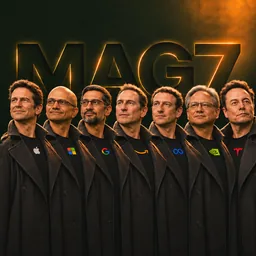
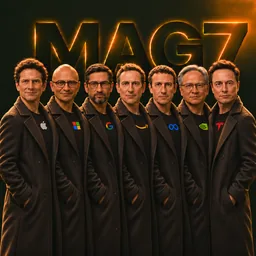
深色主題「深林綠＋暖金」：整站換色（第一步） (#118)
* 深色主題「深林綠＋暖金」：整站換色（第一步）

使用者 2026-11-17：UI 改成一看就是 BNB 生態、但不像 Binance；選 D1 深林綠底＋暖金，只做深色。
- 新增 src/styles/theme-dark.css，最後載入：重新定義 app 與設計稿 vendor 的色票（字與面板對調），
  主要按鈕改暖金；不動 vendor 與 src/reference，不改版面。
- 有些頁面在 body 上自己重設色票（formal-ui.css、mobile-app.css），用同樣的選擇器蓋回來。
- 逐條覆蓋寫死的淺色：logo 翻牌數字、報酬區白底、手機毛玻璃與分頁列、Studio 標籤、建立頁封面預覽、
  waitlist 頁與翻牌看板（改成深色看板）。
- 點畫人像維持紙色印刷卡（multiply 疊在紙上）；寬版封面上的按鈕用紙上淺色，窄版上下排整張卡片是紙色。
- 全站對比檢查（10 多頁 × 390／768／1280，登入與未登入）：沒有字跟底對比不夠的地方。

* 深色主題：寫實照封面上的名稱、返回／分享圖示、桌機封面按鈕改回淺字深玻璃

--white 在深色主題是面板色，封面名稱變成深字疊深底、桌機封面上的兩顆按鈕白底白字、手機返回鍵看不到。
同時合併 main（#119 寫實照封面）。

* Mag7 封面：整排往左移、略縮小，最右邊的人不再被切掉半個身體

* Mag7 封面：兩側的人肩膀與手臂畫完整，七個人都看鏡頭

---------

diff --git a/src/styles/theme-dark.css b/src/styles/theme-dark.css
@@ -1,0 +1,222 @@
+/*
+ * 深色主題「深林綠＋暖金」（使用者 2026-11-17 選 D1；提案見 BNB 生態研究）。
+ *
+ * 這支檔案最後載入，只做「換色」：
+ *   1. 重新定義 app 自己的色票（system.css）與設計稿 vendor 的色票（design.css 的 :root），整站一起變深。
+ *      app 的規則一律用 `--ink` 當字、`--white` 當面板，所以兩個對調後，主要按鈕、輸入框、分段控制會一起翻過來。
+ *   2. 少數寫死淺色的規則（頁首的半透明白、點畫封面的紙色……）在下面逐一覆蓋。
+ * 不改版面、不改元件結構；vendor 與 src/reference 不動。
+ */
+/* 有些頁面在 body 上自己重設了色票（formal-ui.css、mobile-app.css 的手機殼層），這裡用同樣的選擇器蓋回來。 */
+:root,
+body:is(.atp-formal-market, .atp-formal-fund, .portfolio-page, .create-page, .atp-asset-page),
+body.atp-formal-market, body.atp-formal-fund,
+#root :is(.app-masthead, .app-mobile-nav),
+.app-bottom-sheet {
+  /* 底層與面板（由深到淺）。 */
+  --forest-page: #08140f;
+  --forest-surface: #0e1d17;
+  --forest-raised: #142820;
+  --forest-sunken: #06100c;
+  --forest-line: rgba(200, 235, 215, .09);
+  --forest-line-2: rgba(200, 235, 215, .16);
+  /* 暖金（D1）：只給主要動作、選取狀態、焦點環。 */
+  --gold: #e6b84e;
+  --gold-press: #d4a43a;
+  --gold-ink: #14110a;
+  --gold-text: #ecc66a;
+  --gold-soft: rgba(230, 184, 78, .13);
+  --gold-line: rgba(230, 184, 78, .42);
+  /* 點畫人像的紙（深色底上當成印刷卡，不反白）。 */
+  --print-paper: #f1ede2;
+
+  /* app 色票（system.css）：字與面板對調。 */
+  --ink: #eef5f1;
+  --deep: #c9d8d0;
+  --steel: #9db3a8;
+  --slate: #7e968a;
+  --fog: #6f93ae;
+  --frost: #22392f;
+  --snow: var(--forest-raised);
+  --paper: var(--forest-surface);
+  --white: var(--forest-surface);
+  --hair: var(--forest-line);
+  --hair-2: var(--forest-line-2);
+  --positive: #7af0bf;
+  --negative: #ff7a70;
+  --caution: #f0c060;
+  --signal: var(--gold);
+  --signal-soft: var(--gold-soft);
+  --night: var(--forest-sunken);
+  --night-2: var(--forest-surface);
+  --night-line: var(--forest-line);
+  --night-text: #eef5f1;
+  --night-muted: #9db3a8;
+  --night-positive: #7af0bf;
+  --night-negative: #ff7a70;
+  --app-action: var(--gold);
+  --app-action-hover: var(--gold-press);
+  --app-grouped: var(--forest-raised);
+  --app-segment: var(--forest-sunken);
+  --app-card-line: var(--forest-line);
+  --shadow-pop: 0 16px 40px rgba(0, 0, 0, .45), 0 2px 6px rgba(0, 0, 0, .35);
+
+  /* 設計稿 vendor 的色票（design.css 的 :root）。 */
+  --cre8-ink: #eef5f1;
+  --cre8-deep: #c9d8d0;
+  --cre8-steel: #9db3a8;
+  --cre8-slate: #7e968a;
+  --cre8-frost: #22392f;
+  --cre8-snow: var(--forest-raised);
+  --cre8-fog: #6f93ae;
+  --bg: var(--forest-page);
+  --bg-2: var(--forest-surface);
+  --card: var(--forest-surface);
+  --card-2: var(--forest-raised);
+  --field: var(--forest-sunken);
+  --line: var(--forest-line);
+  --line-2: var(--forest-line-2);
+  --ink-2: #c9d8d0;
+  --body: #c9d8d0;
+  --muted: #9db3a8;
+  --mist: #9db3a8;
+  --mist-hover: #eef5f1;
+  --deep-mist: #c9d8d0;
+  --ice: #22392f;
+  --panel: var(--forest-surface);
+  --panel-2: var(--forest-raised);
+  --tint: var(--forest-raised);
+  --border: var(--forest-line-2);
+  --chip-on-mist: #eef5f1;
+  --line-on-mist: var(--forest-line-2);
+  --status-chip: #c9d8d0;
+  --gold-2: var(--gold-press);
+  --pos: #7af0bf;
+  --neg: #ff7a70;
+  --warn: #f0c060;
+  color-scheme: dark;
+}
+
+html, html body, body.atp-formal-market, body.atp-formal-fund { background: var(--forest-page) !important; }
+
+/* 頁首：半透明白改成半透明深綠。 */
+@media (min-width: 720px) {
+  #root .masthead.app-masthead { background: rgba(8, 20, 15, .86); }
+}
+@supports not ((-webkit-backdrop-filter: blur(1px)) or (backdrop-filter: blur(1px))) {
+  #root .masthead.app-masthead { background: var(--forest-page); }
+}
+
+/* 主要按鈕：暖金底、深字（原本是墨色底白字）。 */
+html body #root .btn:not(.ghost, .light, .btn--ghost, :disabled),
+html body .btn:not(.ghost, .light, .btn--ghost, :disabled) { border-color: var(--gold); background: var(--gold); color: var(--gold-ink); }
+html body #root .btn:not(.ghost, .light, .btn--ghost, :disabled):hover,
+html body .btn:not(.ghost, .light, .btn--ghost, :disabled):hover { border-color: var(--gold-press); background: var(--gold-press); color: var(--gold-ink); }
+html body #root .btn:is(.ghost, .light, .btn--ghost):not(:disabled):hover,
+html body .btn:is(.ghost, .light, .btn--ghost):not(:disabled):hover { background: #1b3328; }
+html body #root .masthead .header-wallet[data-wallet-state="disconnected"] { border-color: var(--gold); background: var(--gold); color: var(--gold-ink); }
+html body #root .masthead .header-wallet[data-wallet-state="disconnected"]:hover { border-color: var(--gold-press); background: var(--gold-press); }
+
+/* 點畫人像：白紙黑墨用 multiply 疊在紙色上；深色底上維持紙色，像一張印刷卡。 */
+body.atp-formal-fund #root #atp-fund-cover.is-hedcut { background: var(--print-paper); border-color: var(--gold-line); }
+body.atp-formal-fund #root #atp-fund-cover.is-hedcut h1,
+body.atp-formal-fund #root #atp-fund-cover.is-hedcut h1 :is(a, button, span) { color: #16140f; }
+#root :is(.mkt-avatar, .app-holding-cover, .fund-thumb, .fund-introduction-identity img, .app-ticket-fund img) { background: var(--print-paper); }
+
+/* ── 逐條覆蓋：設計稿與舊樣式寫死的淺色（由全站對比檢查找出，2026-11-17） ── */
+/* logo 翻牌上的數字原本用 --snow（淺）；深色主題裡 --snow 是面板色，數字要維持淺色。 */
+.c8-reel { color: #eef3f7; }
+/* 報酬走勢區塊寫死白底。 */
+body.atp-formal-fund .vault-performance,
+body.fund-detail-redesign .vault-performance,
+body.vault-page .vault-performance { background: transparent; }
+/* 原本深色區（Top performers、資產頁的建立區）上的白字：--white 現在是深色，改用 --ink。 */
+#fund-explore .mkt-deck .mkt-id strong { color: var(--ink); }
+body.atp-asset-page #root [class*="_side_"] > section[class*="_create_"] h2 { color: var(--ink); }
+/* 設計稿寫死 #2B4254 的細字與「展開更多」。 */
+.vault-page .fine,
+#root .fine { color: var(--muted); }
+#root .vault-details summary { color: var(--steel); }
+/* 手機：毛玻璃與分頁列（原本是半透明白）。 */
+:root {
+  --glass-fill: rgb(14 29 23 / 72%);
+  --glass-edge: rgb(200 235 215 / 12%);
+  --glass-press: rgb(238 245 241 / 8%);
+  --glass-shadow: 0 12px 32px rgb(0 0 0 / 40%), inset 0 1px 0 rgb(255 255 255 / 6%);
+}
+@media (max-width: 719px) {
+  #root .app-mobile-nav a[aria-current="page"] { background: var(--gold-soft); color: var(--gold-text); }
+  #root .app-mobile-nav a[aria-current="page"] :is(path, circle, rect, g)[fill="currentColor"] { fill: var(--gold-text); }
+  #fund-explore .collection-tabs,
+  #fund-explore > .collection-tabs { background: rgb(8 20 15 / 94%); }
+  #root:has(#fund-explore) .app-nav-bar::before { background: rgb(8 20 15 / 94%); }
+  #root .app-nav-bar .app-mode-switch[data-target="studio"] { background: var(--forest-raised); color: var(--ink); }
+}
+.app-mode-label { background: var(--gold-soft); color: var(--gold-text); }
+/* 建立頁封面預覽的底（圖片載入前）。 */
+#root section[aria-label="Fund cover"] [class*="_preview_"] { background-color: var(--forest-raised); }
+/* 錢包選單裡的主要按鈕也是暖金。 */
+html body #root .wallet-menu .btn.primary:not(:disabled),
+html body #root .app-portfolio-guest .btn.primary,
+html body #root .signin-screen .btn.btn:not(.ghost) { border-color: var(--gold); background: var(--gold); color: var(--gold-ink); }
+/* Studio 的深色玻璃分頁列：選中項目原本用 --white（現在是深色）。 */
+@media (max-width: 719px) {
+  body.studio-mode #root .app-mobile-nav a[aria-current="page"] { color: var(--gold-text); }
+  body.studio-mode #root .app-mobile-nav a[aria-current="page"] :is(path, circle, rect, g)[fill="currentColor"] { fill: var(--gold-text); }
+}
+/* 封面預覽上的基金名稱疊在圖片上，固定白字。 */
+#root section[aria-label="Fund cover"] [class*="_preview_"] > strong { color: #fff; }
+/*
+ * 點畫封面（紙色）：
+ *   - 寬版（按鈕疊在封面上）：兩顆按鈕維持紙上的淺色按鈕。
+ *   - 窄版上下排（cre8-app#106）：名稱那條也用紙色，整張卡片是一張印刷卡；按鈕在卡片下面的深色底上，照一般深色按鈕。
+ */
+@media (min-width: 720px) {
+  @container fund-heading (min-width: 560px) {
+    body.atp-formal-fund #root .vault-heading:has(#atp-fund-cover.is-hedcut) .atp-fund-byline :is(.btn, .fund-introduction-trigger) { background: #fffdf8; color: #16140f; box-shadow: inset 0 0 0 1px rgba(22, 20, 15, .12); }
+    body.atp-formal-fund #root .vault-heading:has(#atp-fund-cover.is-hedcut) .atp-fund-byline :is(.btn, .fund-introduction-trigger):hover { background: #f4efe3; }
+  }
+  @container fund-heading (max-width: 559.98px) {
+    body.atp-formal-fund #root #atp-fund-cover.is-hedcut h1 { background: var(--print-paper); border-top-color: rgba(22, 20, 15, .1); }
+  }
+}
+
+/* ── 登入頁與 waitlist（整站鎖住時唯一的畫面）：淺灰底與白色翻牌看板改成深色。 ── */
+.signin-screen.waitlist { background: var(--forest-page); }
+.waitlist__board {
+  background:
+    radial-gradient(90% 70% at 70% 20%, rgba(230, 184, 78, .10), transparent 60%),
+    linear-gradient(180deg, #0b1913, #08140f);
+  border-left-color: var(--forest-line);
+}
+@media (max-width: 959px) {
+  .signin-screen.waitlist { background: radial-gradient(120% 55% at 50% 0%, rgba(230, 184, 78, .10), transparent 70%), var(--forest-page); }
+  .waitlist__board { background: none; }
+}
+.flap-board { background: rgba(14, 29, 23, .72); box-shadow: 0 30px 60px rgba(0, 0, 0, .45), 0 0 0 1px var(--forest-line); }
+.flap { background: linear-gradient(180deg, #1d3a2e 0 50%, #16301f 50% 100%); box-shadow: 0 1px 1px rgba(0, 0, 0, .4), 0 0 0 1px rgba(200, 235, 215, .07); color: #eef5f1; }
+.flap::after { background: rgba(0, 0, 0, .55); }
+.flap[data-blank] { background: linear-gradient(180deg, #13271f 0 50%, #102119 50% 100%); }
+.waitlist__invite { border-top-color: var(--forest-line); }
+html body #root .waitlist__invite input { background: var(--forest-sunken); box-shadow: 0 0 0 1px var(--forest-line-2); }
+html body #root .signin-screen .btn.btn.ghost[data-method='follow'] { background: var(--forest-raised); color: var(--ink); box-shadow: 0 0 0 1px var(--forest-line); }
+html body #root .signin-screen .btn.btn.ghost[data-method='follow']:hover { background: #1b3328; }
+html body #root .signin-screen .btn.btn.ghost:not([data-method='google']) { background: var(--forest-raised); color: var(--ink); }
+/* 主要動作（含 Connect X）一律暖金。 */
+html body #root .signin-screen .btn.btn[data-method='x'] { background: var(--gold); color: var(--gold-ink); }
+html body #root .signin-screen .btn.btn[data-method='x']:hover:not(:disabled) { background: var(--gold-press); }
+
+/*
+ * 封面上的字與按鈕（2026-11-18）：封面一律是深色照片，原本用 --white 當字色／淺色玻璃當按鈕；
+ * --white 在深色主題是面板色，名稱、手機的返回／分享圖示會變成深字疊深底，桌機封面上的按鈕變成白底白字。
+ * 點畫封面（紙色）在上面另有規則，這裡只管非點畫的封面。
+ */
+body.atp-formal-fund #root #atp-fund-cover:not(.is-hedcut) h1,
+body.atp-formal-fund #root #atp-fund-cover:not(.is-hedcut) h1 :is(a, button, span) { color: #f4f1e8; }
+#root #atp-fund-cover .app-fund-toolbar > :is(a, button) { background: rgba(8, 20, 15, .62); color: #f4f1e8; box-shadow: inset 0 0 0 1px rgba(244, 241, 232, .14); }
+@media (min-width: 720px) {
+  @container fund-heading (min-width: 560px) {
+    body.atp-formal-fund #root .vault-heading:has(#atp-fund-cover:not(.is-hedcut)) .atp-fund-byline :is(.btn, .fund-introduction-trigger) { background: rgba(8, 20, 15, .72); color: #f4f1e8; box-shadow: inset 0 0 0 1px var(--gold-line); }
+    body.atp-formal-fund #root .vault-heading:has(#atp-fund-cover:not(.is-hedcut)) .atp-fund-byline :is(.btn, .fund-introduction-trigger):hover { background: rgba(20, 40, 32, .9); color: #f4f1e8; }
+  }
+}

diff --git a/tests/theme-dark.test.ts b/tests/theme-dark.test.ts
@@ -1,0 +1,47 @@
+import { expect, test } from "bun:test";
+import fs from "node:fs";
+
+// 深色主題「深林綠＋暖金」（使用者 2026-11-17 選 D1）。只換色：一支檔案、最後載入、不動 vendor 與 src/reference。
+
+const css = fs.readFileSync("src/styles/theme-dark.css", "utf8");
+
+test("the dark theme loads after every other stylesheet", () => {
+  const main = fs.readFileSync("src/main.tsx", "utf8");
+  const imports = [...main.matchAll(/import ['"]\.\/styles\/([\w-]+)\.css['"]/g)].map((m) => m[1]);
+  expect(imports.at(-1)).toBe("theme-dark");
+});
+
+test("D1 palette: forest-green surfaces, warm gold for actions", () => {
+  for (const [token, value] of [
+    ["--forest-page", "#08140f"], ["--forest-surface", "#0e1d17"], ["--forest-raised", "#142820"],
+    ["--gold", "#e6b84e"], ["--gold-ink", "#14110a"], ["--positive", "#7af0bf"], ["--negative", "#ff7a70"],
+  ]) expect(css).toContain(`${token}: ${value};`);
+  // 字與面板對調：--ink 是淺色字、--white 是深色面板。
+  expect(css).toContain("--ink: #eef5f1;");
+  expect(css).toContain("--white: var(--forest-surface);");
+  // 主要按鈕是暖金。
+  expect(css).toMatch(/\.btn:not\(\.ghost, \.light, \.btn--ghost, :disabled\) \{ border-color: var\(--gold\); background: var\(--gold\); color: var\(--gold-ink\); \}/);
+});
+
+test("pages that reset the palette on body are covered with the same selectors", () => {
+  // formal-ui.css 與 mobile-app.css 在 body 上自己設了 --ink 等色票，:root 蓋不到。
+  expect(fs.readFileSync("src/styles/mobile-app.css", "utf8")).toContain("body:is(.atp-formal-market, .atp-formal-fund, .portfolio-page, .create-page, .atp-asset-page),");
+  expect(css).toContain("body:is(.atp-formal-market, .atp-formal-fund, .portfolio-page, .create-page, .atp-asset-page),");
+  expect(css).toContain("body.atp-formal-market, body.atp-formal-fund,");
+});
+
+test("stipple covers stay printed on paper, the logo digits stay light, the waitlist board is dark", () => {
+  expect(css).toContain("--print-paper: #f1ede2;");
+  expect(css).toContain("#atp-fund-cover.is-hedcut { background: var(--print-paper);");
+  expect(css).toContain(".c8-reel { color: #eef3f7; }");
+  expect(css).toContain(".signin-screen.waitlist { background: var(--forest-page); }");
+  expect(css).toContain(".flap { background: linear-gradient(180deg, #1d3a2e 0 50%, #16301f 50% 100%);");
+});
+
+test("photo covers keep light text and dark glass buttons (names were dark-on-dark, buttons white-on-white)", () => {
+  // 封面是深色照片：名稱與手機返回／分享圖示用固定淺色，不跟 --white（深色主題裡是面板色）走。
+  expect(css).toContain("#atp-fund-cover:not(.is-hedcut) h1 :is(a, button, span) { color: #f4f1e8; }");
+  expect(css).toContain("#atp-fund-cover .app-fund-toolbar > :is(a, button) { background: rgba(8, 20, 15, .62); color: #f4f1e8;");
+  // 桌機寬版：疊在封面上的兩顆按鈕是深色玻璃＋淺字，不是 fund-page.css 的白色玻璃（字也是淺色，會白底白字）。
+  expect(css).toMatch(/@container fund-heading \(min-width: 560px\) \{\s*body\.atp-formal-fund #root \.vault-heading:has\(#atp-fund-cover:not\(\.is-hedcut\)\) \.atp-fund-byline :is\(\.btn, \.fund-introduction-trigger\) \{ background: rgba\(8, 20, 15, \.72\); color: #f4f1e8;/);
+});

diff --git a/src/main.tsx b/src/main.tsx
@@ -53,3 +53,5 @@ import './styles/fund-page.css';
 import './styles/pages.css';
 import './styles/builder.css';
 import './styles/covers.css';
+// 深色主題（深林綠＋暖金，2026-11-17）：只換色，一定最後載入。
+import './styles/theme-dark.css';
